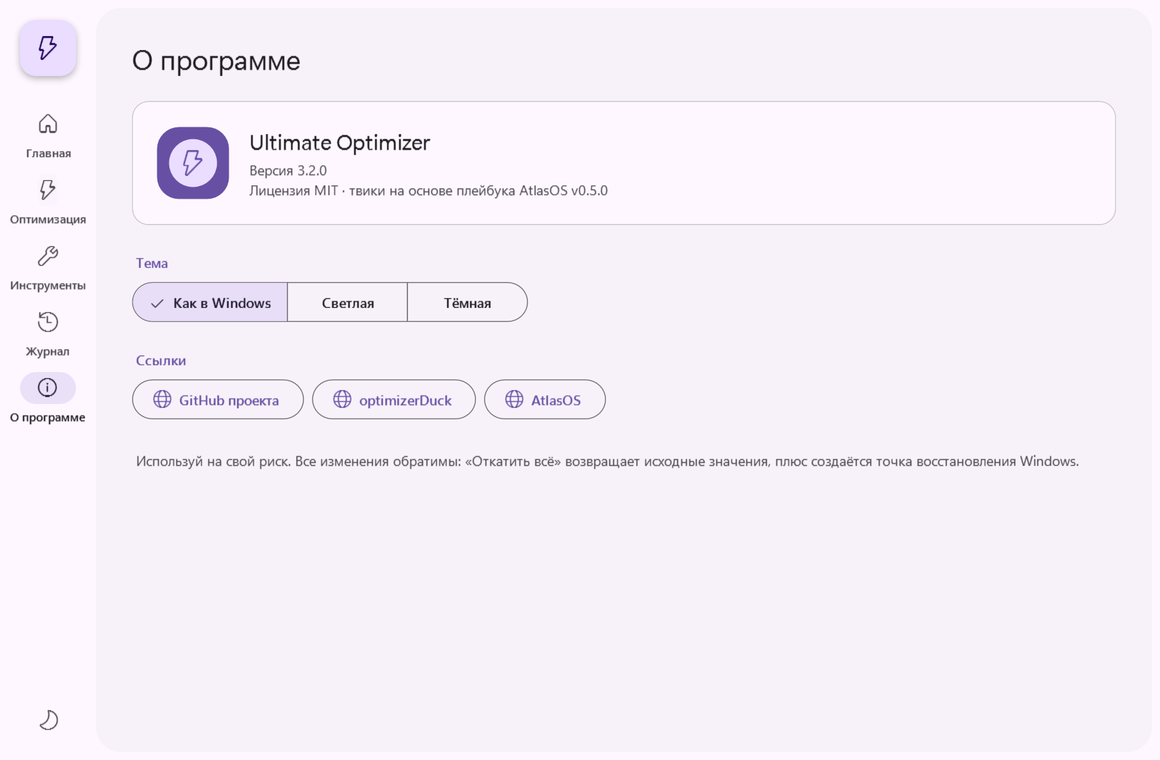
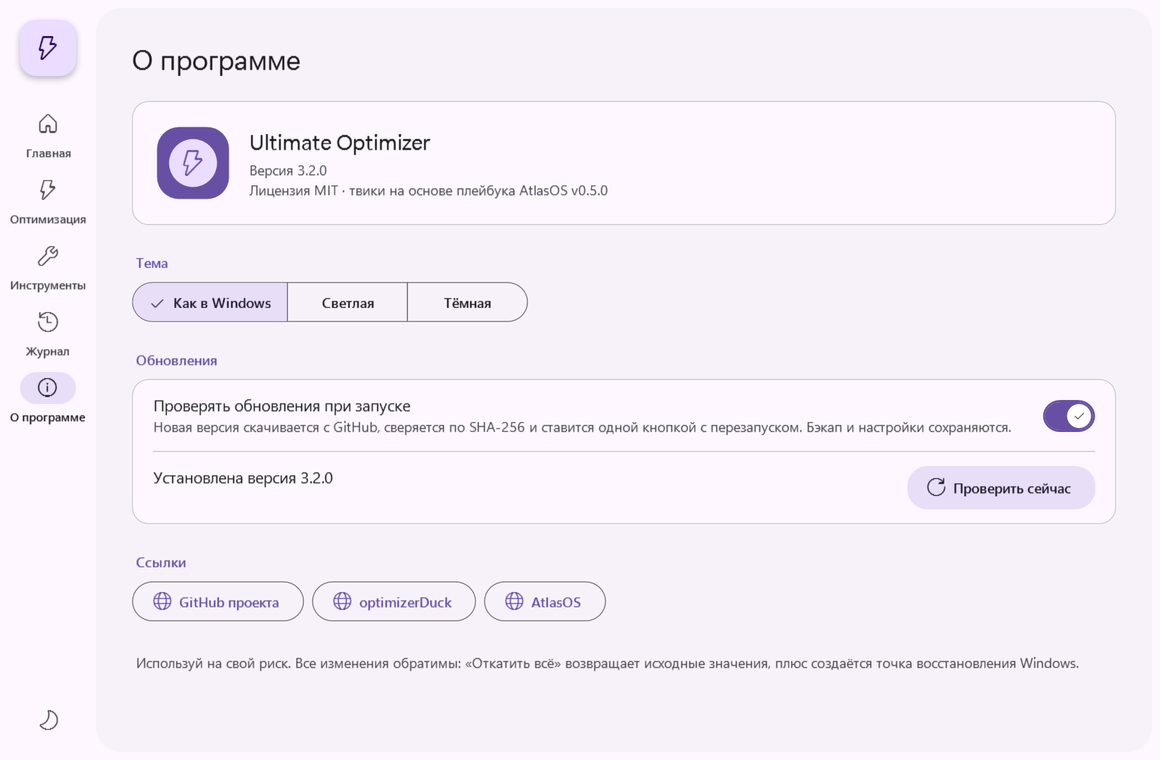
v3.3.0: auto-update, screenshot gallery, release notes with screenshots
Claude-Session: https://claude.ai/code/session_01XetMs98Q2KW8WsjPMmJwNi

diff --git a/README.md b/README.md
@@ -16,7 +16,7 @@
 
 | Файл | Что это |
 |---|---|
-| `UltimateOptimizer.exe` | Приложение в одном файле, все скрипты внутри. Просто запусти. |
+| `UltimateOptimizer.exe` | Приложение в одном файле, все скрипты внутри. Просто запусти, дальше обновляется само. |
 | `UltimateOptimizer-vX.Y.Z.zip` | Те же скрипты отдельными файлами + `.bat` + exe |
 | `SHA256SUMS.txt` | Контрольные суммы |
 
@@ -25,20 +25,50 @@
 
 ## Приложение
 
-Окно в стиле **Material Design 3**: светлая и тёмная темы, навигационная панель, карточки, переключатели. Ничего доустанавливать не нужно, приложение работает на .NET Framework 4.8, который встроен в Windows 10 и 11.
+Окно в стиле **Material Design 3**: светлая и тёмная темы, навигационная панель, карточки, переключатели, диалоги. Ничего доустанавливать не нужно: приложение работает на .NET Framework, который встроен в Windows 10 и 11. Обновляется само.
 
-<p align="center"><img src="docs/screenshots/home-dark.png" width="820" alt="Главная"></p>
+<p align="center"><img src="docs/screenshots/home-dark.png" width="860" alt="Главная — тёмная тема"></p>
 
-| | |
+| Тёмная тема | Светлая тема |
 |---|---|
-| <img src="docs/screenshots/optimize-light.png" alt="Оптимизация"> | <img src="docs/screenshots/log-dark.png" alt="Журнал"> |
-| <img src="docs/screenshots/tools-dark.png" alt="Инструменты"> | <img src="docs/screenshots/home-light.png" alt="Светлая тема"> |
+| <img src="docs/screenshots/optimize-dark.png" alt="Оптимизация"> | <img src="docs/screenshots/optimize-light.png" alt="Оптимизация"> |
+| **Оптимизация**: переключатели опций и запуск | |
+| <img src="docs/screenshots/log-dark.png" alt="Журнал"> | <img src="docs/screenshots/done-light.png" alt="Готово"> |
+| **Журнал**: живой вывод скриптов с прогрессом | В конце предлагается перезагрузка |
+| <img src="docs/screenshots/tools-dark.png" alt="Инструменты"> | <img src="docs/screenshots/tools-light.png" alt="Инструменты"> |
+| **Инструменты**: починка Windows, отчёт о ПК, optimizerDuck | |
+| <img src="docs/screenshots/dialog-dark.png" alt="Диалог"> | <img src="docs/screenshots/dialog-light.png" alt="Диалог"> |
+| Каждое действие подтверждается | |
+| <img src="docs/screenshots/update-dark.png" alt="Обновление"> | <img src="docs/screenshots/about-light.png" alt="О программе"> |
+| **Автообновление**: баннер новой версии | Тема и настройки обновлений |
 
 - **Главная**: железо ПК, статус оптимизации, подсказки по апгрейду.
 - **Оптимизация**: переключатели опций (программы, optimizerDuck, рискованные пункты) и запуск.
 - **Инструменты**: починка Windows (DISM + SFC, сброс сети, точки восстановления), отчёт о ПК, optimizerDuck, папки с бэкапом и логами.
 - **Журнал**: живой вывод скриптов с прогрессом. Журнал можно скопировать.
-- **О программе**: выбор темы и ссылки.
+- **О программе**: тема, автообновление, ссылки.
+
+> Скриншоты рендерятся автоматически в CI (`UltimateOptimizer.exe --screenshots <папка>`) на Windows Server, поэтому в карточках железа видна виртуальная машина.
+
+## Автообновление
+
+При запуске приложение проверяет [последний релиз](https://github.com/zaxar1231/ultra-optimizer-/releases/latest). Если вышла новая версия, на главной появляется баннер.
+
+1. Нажимаешь «Обновить».
+2. Новый `UltimateOptimizer.exe` скачивается с GitHub.
+3. SHA-256 сверяется с контрольной суммой релиза. Если не совпала, файл удаляется и ничего не ставится.
+4. Exe подменяется, приложение перезапускается уже новой версией.
+
+Бэкап, логи и настройки при этом сохраняются. Проверку можно выключить или запустить вручную в «О программе». Скачивать новые версии руками не нужно.
+
+## Работает на любом ПК
+
+- **Windows 10 (любая версия) и Windows 11**, x64 и ARM64. .NET Framework 4.6+ уже встроен в систему, приложение не просит ставить новый.
+- **Нужные права запрашивает само** (UAC). Повторный запуск разворачивает уже открытое окно, а не открывает второе.
+- **Если чего-то нет в системе, есть запасной вариант.** На Windows 10 нет шрифтов Segoe UI Variable и Fluent Icons — используются Segoe UI и MDL2. Без DWM-атрибутов заголовок окна остаётся стандартным. На старых видеокартах и в RDP включается программная отрисовка WPF.
+- **Ошибки не роняют программу.** Сообщение показывается, подробности пишутся в `C:\ProgramData\UltimateOptimizer\crash.log`.
+- **Сеть**: TLS 1.2 включается принудительно, используются системные настройки прокси.
+- **Проверка в CI.** При каждом изменении на Windows проверяется синтаксис скриптов, PSScriptAnalyzer, сборка, рендер всех экранов и сквозной тест автообновления.
 
 ## Что делает
 

diff --git a/CHANGELOG.md b/CHANGELOG.md
@@ -1,5 +1,18 @@
 # Changelog
 
+## v3.3.0
+
+### Новое
+- **Автообновление.** При запуске приложение проверяет последний релиз на GitHub и показывает баннер «Доступна версия». Одна кнопка скачивает новый exe, сверяет SHA-256, подменяет файл и перезапускает приложение. Проверку можно выключить или запустить вручную в «О программе».
+- **Работа на любом ПК.** Добавлен манифест: корректно определяется версия Windows, учитывается DPI, используются современные системные диалоги. Приложение нацелено на .NET 4.5, поэтому не просит ставить новый .NET. TLS 1.2 включается принудительно.
+- Запускается только один экземпляр: повторный запуск разворачивает уже открытое окно.
+- Ошибки больше не роняют приложение: показывается сообщение, подробности пишутся в `crash.log`.
+- Распаковка скриптов не падает, если файл занят: неизменённые файлы не перезаписываются.
+- В CI добавлен сквозной тест автообновления на Windows: скачивание релиза, проверка SHA-256 и подмена exe.
+- В README добавлена галерея всех экранов в светлой и тёмной темах, скриншоты есть и в описании релиза.
+
+> Версия 3.2.0 ещё не умеет обновляться сама, поэтому 3.3.0 нужно один раз скачать вручную. Дальше обновления приходят автоматически.
+
 ## v3.2.0
 
 ### Новое
